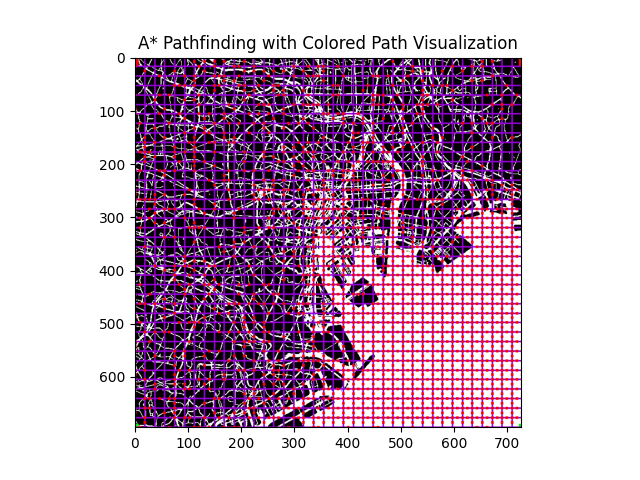
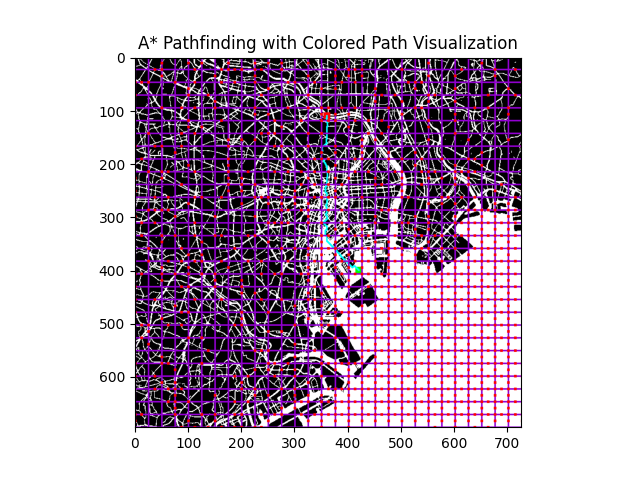
add HPA * and done

Changed region(s): [[0.1875, 0.125, 0.8125, 0.9062]]

diff --git a/static/app.js b/static/app.js
@@ -2,29 +2,51 @@
 // Names of the games
 // JavaScript to handle toggle state
 const toggleButton = document.getElementById('toggleButton');
-const gameNamesDict  = {"Berlin": "Berlin", "Liverpool": "Liverpool", "Paris":"Paris", "Tokyo":"Tokyo", "Rome":"Rome", "France":"France", "Russia":"Russia", 'League Of Legends': 'lol', 'GTA V': 'GTAV', 'Test': 'test', }
-
-toggleButton.addEventListener('change', function() {
-    if (this.checked) {
-        console.log('On');
-    } else {
-        console.log('Off');
-    }
-});
+const gameNamesDict  = {"Berlin": "Berlin", "Liverpool": "Liverpool", "Paris": "Paris", "Tokyo":"Tokyo", "Rome":"Rome", "France":"France", "Russia":"Russia", 'League Of Legends': 'lol', 'GTA V': 'GTAV', 'Test': 'test', }
 
 // JavaScript to handle slider value
 const slider = document.getElementById('slider');
 const lastSliderValue = document.getElementById('lastSliderValue');
 const displayButton = document.getElementById('displayButton');
+let xDiv = [];
+let yDiv = [];
+let exitPoints = [];
+
+
+toggleButton.addEventListener('change', function() {
+    if (this.checked) {
+        fetch('/get_hpa_path', {
+            method: 'POST',
+            headers: {
+                'Content-Type': 'application/json', // Update Content-Type to JSON
+            },
+            body: JSON.stringify({
+                'x_divisions': xDiv, 'y_divisions': yDiv, 'exit_points': exitPoints,
+            }),
+        }).then(response => response.json())
+            .then(data => {
+                const paths = data.paths;
+                clearPath(['line']);
+                for(let i = 0; i < paths.length; i++){
+                    let path = paths[i].map(coord => {
+                        return { x: coord[0], y: coord[1] };
+                    });
+                    drawLine(path, size=3, color='cyan');
+                }
+            })
+            .catch(error => console.error('Error:', error));
+        
+    }
+});
 
 slider.addEventListener('input', function() {
     const value = this.value;
     clearPath(['gridLine', 'exitPoint'])
     promise = fetchGridAndExitPoints(value); 
         promise.then(result => {
-            const xDiv = result.x_div;
-            const yDiv = result.y_div;
-            const exitPoints = result.exit_points;
+            xDiv = result.x_div;
+            yDiv = result.y_div;
+            exitPoints = result.exit_points;
             // Draw Grid lines
             for (let i = 0; i < xDiv.length; i++) {
                 drawLine([{ x: xDiv[i], y: 0 }, { x: xDiv[i], y: originalImageHeight }], size=3, color='purple', className='gridLine');

diff --git a/map.py b/map.py
@@ -1,6 +1,7 @@
 import cv2
 import numpy as np
 import matplotlib.pyplot as plt
+import argparse
 from heapq import heappop, heappush
 import os
 
@@ -11,10 +12,11 @@ map_dicts = [{'map_name' : 'lol-map', 'threshold' : 20, 'grid_size' : 15, 'rever
                 {'map_name' : 'Berlin-map', 'threshold' : 230, 'grid_size' : 40, 'reverse' : True},
                 {'map_name' : 'Liverpool-map', 'threshold' : 200, 'grid_size' : 40, 'reverse' : True},
                 {'map_name' : 'Paris-map', 'threshold' : 200, 'grid_size' : 40, 'reverse' : True},
-                {'map_name' : 'Tokyo-map', 'threshold' : 160, 'grid_size' : 40, 'reverse' : True},
+                {'map_name' : 'Tokyo-map', 'threshold' : 160, 'grid_size' : 20, 'reverse' : True},
                 {'map_name' : 'Rome-map', 'threshold' : 70, 'grid_size' : 40, 'reverse' : False},
                 {'map_name' : 'France-map', 'threshold' : 240, 'grid_size' : 40, 'reverse' : True},
                 {'map_name' : 'Russia-map', 'threshold' : 240, 'grid_size' : 40, 'reverse' : True}]
+
 
 map_directory = "maps"
 
@@ -142,7 +144,7 @@ def transform_to_subgrid_coordinates(global_coord, subgrid_start):
 def transform_to_global_coordinates(subgrid_coord, subgrid_start):
     return (subgrid_coord[0] + subgrid_start[0], subgrid_coord[1] + subgrid_start[1])
 
-def run_astar_in_rectangle(grid, exit_points, x_divisions, y_divisions):
+def run_astar_in_rectangle(grid, exit_points, x_divisions, y_divisions, js_api=False):
     paths_list = []
     for i, rectangle_points in enumerate(exit_points):
         print(f"exit_point : {i+1}/{len(exit_points)}")
@@ -168,8 +170,11 @@ def run_astar_in_rectangle(grid, exit_points, x_divisions, y_divisions):
                     path = astar_pathfinding(subgrid, start_point_subgrid, end_point_subgrid)
 
                     # Transform A* path coordinates back to global grid
-                    path_global = tuple_to_json([transform_to_global_coordinates(point, subgrid_start) for point in path])
-                    paths_list.append([path_global, False])
+                    path_global = [transform_to_global_coordinates(point, subgrid_start) for point in path]
+                    if js_api:
+                        paths_list.append(path_global)
+                    else:
+                        paths_list.append([path_global, False])
 
     return paths_list
 
@@ -235,38 +240,58 @@ def tuple_to_json(path) :
         json_list.append({'x' : point[0], 'y' : point[1]})
     return json_list
 
-if __name__ == "__main__":
-    
-    map_dict = map_dicts[-4]  # Replace with the path to your image
-    
-    image_path = get_image_path(map_directory, map_dict['map_name'], supported_extensions)
-    is_saved = create_obstacle_map(image_path, threshold_value=map_dict['threshold'], reverse=map_dict['reverse'])
-    # Load the NumPy array    
-    loaded_array = load_npy(f"obstacle_maps/{map_dict['map_name']}_obstacle.npy")
-    
-    # Divide the loaded image into equal lengths on x-axis and y-axis
-    n_divisions = map_dict['grid_size']
+def create_directory(directory_path):
+    # Check if the directory exists
+    if not os.path.exists(directory_path):
+        # If not, create it
+        os.makedirs(directory_path)
+        print(f"Directory '{directory_path}' created successfully.")
+    else:
+        print(f"Directory '{directory_path}' already exists.")
+
+
+
+def main():
+    parser = argparse.ArgumentParser(description="HPA* Pathfinding in Video Games")
+    parser.add_argument("--image_path", type=str, default="maps/tokyo-map.png", help="Image map path")
+    parser.add_argument("--grid_size", type=int, default=5, help="Number of divisions for the grid")
+    parser.add_argument("--threshold", type=int, default=25, help="threshold of the color to create obstacles")
+    parser.add_argument("--reverse", type=bool, default=False, help="reverse the map color, to use if obstacles are brighter than the roads")
+    parser.add_argument("--start_coord", nargs=2, type=int, default=[420, 400], help="Start coordinates (X Y)")
+    parser.add_argument("--end_coord", nargs=2, type=int, default=[360, 110], help="End coordinates (X Y)")
+
+    args = parser.parse_args()
+
+    create_directory("obstacle_maps")
+
+    image_path = args.image_path
+    is_saved = create_obstacle_map(image_path, threshold_value=args.threshold, reverse=args.reverse)
+
+    loaded_array = load_npy(f"obstacle_maps/{args.image_path.split('/')[-1].split('.')[0]}_obstacle.npy")
+
+    n_divisions = args.grid_size
     x_divisions = np.linspace(0, loaded_array.shape[0], num=n_divisions, dtype=int)
     y_divisions = np.linspace(0, loaded_array.shape[1], num=n_divisions, dtype=int)
-    
-    # static exit_points
+
     exit_points = get_strategic_exit_points(loaded_array, x_divisions, y_divisions)
-    # Set start and end coordinates (replace with your own coordinates) (X, Y)
-    start_coord = {'x': 0, 'y': 0}
-    end_coord = {'x': 0, 'y': 10}
 
+    start_coord = {'x': args.start_coord[0], 'y': args.start_coord[1]}
+    end_coord = {'x': args.end_coord[0], 'y': args.end_coord[1]}
 
-    # Run A* pathfinding algorithm
-    optimal_path = tuple_to_json(astar_pathfinding(loaded_array, (start_coord['x'], start_coord['y']), (end_coord['x'], end_coord['y'])))
+    optimal_path = tuple_to_json(astar_pathfinding(loaded_array, (start_coord['x'], start_coord['y']),
+                                                (end_coord['x'], end_coord['y'])))
     main_path = [optimal_path, True]
+
+    paths_between_exit_points = tuple_to_json(run_astar_in_rectangle(loaded_array, exit_points, x_divisions, y_divisions))
     
-    # Run A* in each rectangle to compute paths between exit points
-    # paths_between_exit_points = run_astar_in_rectangle(loaded_array, exit_points, x_divisions, y_divisions)
-     
-    paths = [main_path] 
-    # print(paths)
-    # Visualize the path on the image
+    # Uncomment the following lines if using HPA*
+    # paths = paths_between_exit_points + [main_path]
+    
+    # Comment the following line if using HPA*
+    paths = [main_path]
+
     visualize_path(loaded_array, paths, start_coord, end_coord, x_divisions, y_divisions, exit_points)
 
-    # Return the path as a list of coordinates
-    # print("A* Path:", path)
+
+if __name__ == "__main__":
+    main()

diff --git a/app.py b/app.py
@@ -9,47 +9,21 @@ from map import get_image_path, \
                 run_astar_in_rectangle,\
                 visualize_path,\
                 map_dicts,\
-                map_directory, supported_extensions
+                map_directory, supported_extensions, create_directory
 import numpy as np
 
 app = Flask(__name__)
 
 global loaded_array
-loaded_array = load_npy(f"obstacle_maps/{map_dicts[0]['map_name']}_obstacle.npy")
+try :
+    loaded_array = load_npy(f"obstacle_maps/{map_dicts[0]['map_name']}_obstacle.npy")
+except Exception as e :
+    create_directory("obstacle_maps")
+    print(e)
+    
 
 @app.route('/')
 def index() :
-    # map_dict = map_dicts[2]  # Replace with the path to your image
-    
-    # image_path = get_image_path(map_directory, map_dict['map_name'], supported_extensions)
-    # is_saved = create_obstacle_map(image_path, threshold_value=map_dict['threshold'])
-    # # Load the NumPy array    
-    # loaded_array = load_npy(f"obstacle_maps/{map_dict['map_name']}_obstacle.npy")
-    
-    # # Divide the loaded image into equal lengths on x-axis and y-axis
-    # n_divisions = map_dict['grid_size']
-    # x_divisions = np.linspace(0, loaded_array.shape[0], num=n_divisions, dtype=int)
-    # y_divisions = np.linspace(0, loaded_array.shape[1], num=n_divisions, dtype=int)
-    
-    # # static exit_points
-    # exit_points = get_strategic_exit_points(loaded_array, x_divisions, y_divisions)
-    # # Set start and end coordinates (replace with your own coordinates) (X, Y)
-    # start_coord = {'x': 100, 'y': 100}
-    # end_coord = {'x': 110, 'y': 100}
-
-
-    # # Run A* pathfinding algorithm
-    # optimal_path = tuple_to_json(astar_pathfinding(loaded_array, (start_coord['x'], start_coord['y']), (end_coord['x'], end_coord['y'])))
-    # main_path = [optimal_path, True]
-    
-    # # Run A* in each rectangle to compute paths between exit points
-    # paths_between_exit_points = run_astar_in_rectangle(loaded_array, exit_points, x_divisions, y_divisions)
-     
-    # paths = paths_between_exit_points + [main_path] 
-
-    # # Visualize the path on the image
-    # visualize_path(loaded_array, paths, start_coord, end_coord, x_divisions, y_divisions, exit_points)
-
     return render_template('index.html')
 
 @app.route('/maps/<filename>')
@@ -68,7 +42,12 @@ def get_image_info():
     # Assuming you have a function to get image info based on game_name
     image_path = get_image_path(map_directory, game_map_dict['map_name'], supported_extensions)
     global loaded_array
-    loaded_array = load_npy(f"obstacle_maps/{game_map_dict['map_name']}_obstacle.npy")
+    try :
+        loaded_array = load_npy(f"obstacle_maps/{game_map_dict['map_name']}_obstacle.npy")
+    except Exception as e :
+        create_obstacle_map(image_path, threshold_value=game_map_dict['threshold'], reverse=game_map_dict['reverse'])
+        loaded_array = load_npy(f"obstacle_maps/{game_map_dict['map_name']}_obstacle.npy")
+        print(e)
     original_width, original_height = loaded_array.shape
 
     return jsonify({
@@ -78,6 +57,7 @@ def get_image_info():
     })
     
     
+
 @app.route('/get_optimal_path', methods=['POST'])
 def get_optimal_path():
     data = request.get_json()
@@ -92,8 +72,17 @@ def get_optimal_path():
     # Example: Your A* pathfinding logic here
 
     optimal_path = tuple_to_json(astar_pathfinding(loaded_array, (start_point['x'], start_point['y']), (end_point['x'], end_point['y'])))
-
+    # paths_between_exit_points = run_astar_in_rectangle(loaded_array, exit_points, x_divisions, y_divisions)
     return jsonify({'path': optimal_path})
+
+@app.route('/get_hpa_path', methods=['POST'])
+def get_hpa_path():
+    data = request.get_json()
+    x_divisions = data.get('x_divisions')
+    y_divisions = data.get('y_divisions')
+    exit_points = data.get('exit_points')
+    optimal_paths = run_astar_in_rectangle(loaded_array, exit_points=exit_points, x_divisions=x_divisions, y_divisions=y_divisions, js_api=True)
+    return jsonify({'paths': optimal_paths})
 
 def convert_int64_to_int(item):
     if isinstance(item, np.int64):

diff --git a/README.md b/README.md
@@ -1,2 +1,37 @@
-# HPA_star_project_VG
-HPA* project in video games maps
+# HPA* Pathfinding in Video Games
+
+This project focuses on implementing HPA* (Hierarchical Pathfinding A*) for efficient pathfinding in video games, with the ultimate goal of creating a working mini-map GPS system to guide players within the game world. The project includes two main applications: `map.py` and `app.py`.
+
+## `map.py`
+
+`map.py` contains the core functions implementing both A* and HPA* algorithms. The most crucial functions to explore are:
+
+1. **astar_pathfinding**: This function performs A* pathfinding and calculates the optimal path between two points on the map.
+
+2. **get_strategic_exit_points** and **run_astar_in_rectangle**: These functions are essential for HPA*, handling the strategic exit points and running A* within rectangles during map division (x_divisions : x-axis divisions, y_divisions: y_axis divisions, and find optimal paths in each mini rectangle).
+
+```bash
+python3 map.py --image_path maps/Tokyo-map.png --start_coord 420 400 --end_coord 360 110 --grid_size 30 --reverse True --threshold 160
+```
+
+## `app.py`
+
+`app.py` serves as a Flask API web application to showcase the project's functionality. To run the application, execute `python3 app.py`, and the website will be launched on a localhost port. Here's a guide on using the application:
+
+1. **Explore the App**: Upon launching the app, navigate through the interface to get familiar with the features.
+
+2. **A* Pathfinding**:
+   - Click on the map twice to set a start and end point.
+   - A* pathfinding will be executed, and the result will be displayed on the map.
+
+3. **HPA* Pathfinding**:
+   - Choose a grid size and apply HPA* using the designated button.
+   - Observe the terminal for the progressive construction of paths during the HPA* process.
+   - At the end, all the paths that can be used will be displayed on the map.
+
+## Note
+
+There is an initialization issue that requires clicking on map and grid size buttons to initiate the map array and exit points for the app to work correctly, especially for HPA* functionality. Ensure that you follow this step before attempting to run HPA*. High grid size may cause lagging in the app :) 
+
+Feel free to explore and contribute to the project for further improvements in video game pathfinding in mini maps navigation!
+
